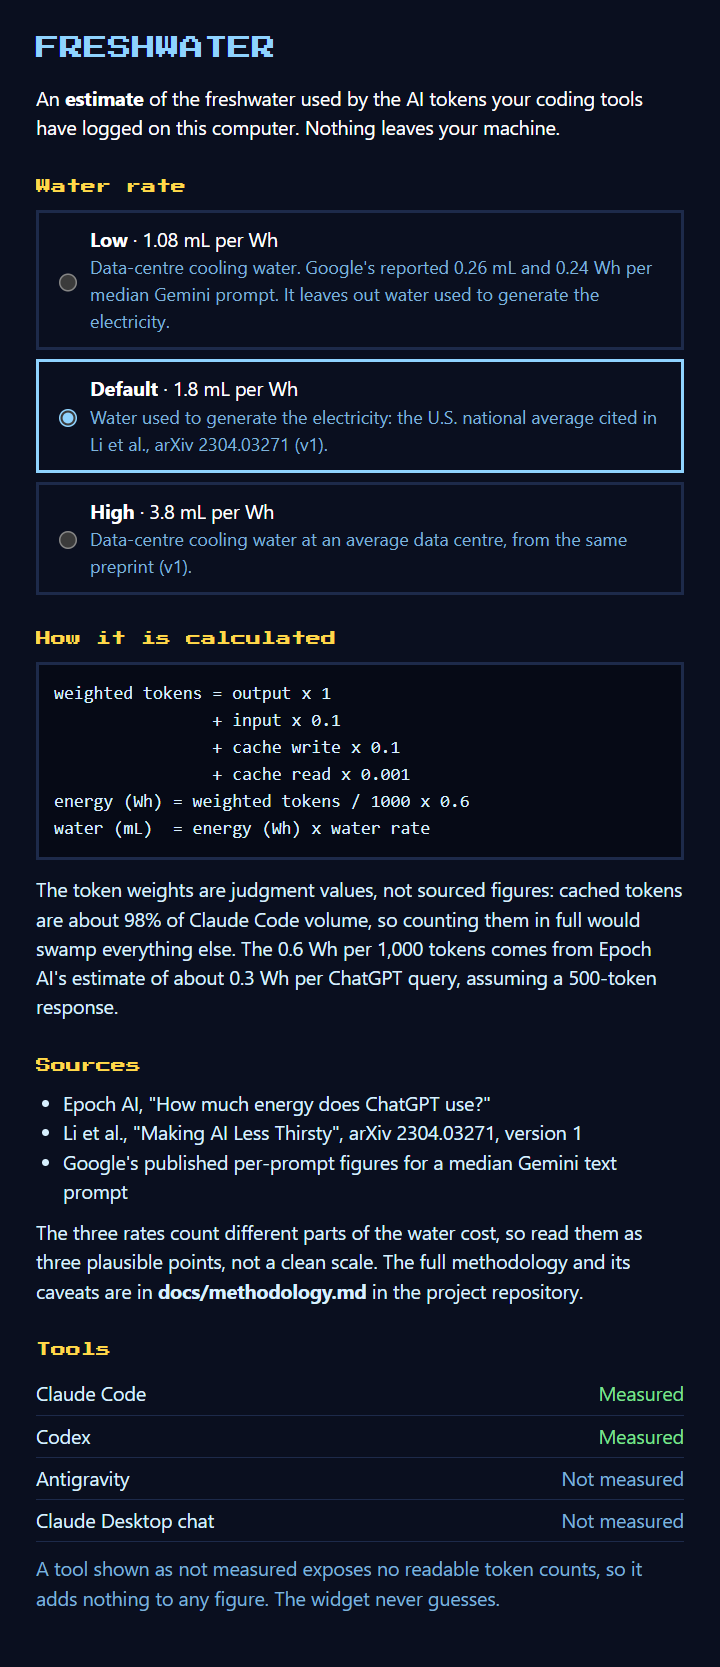
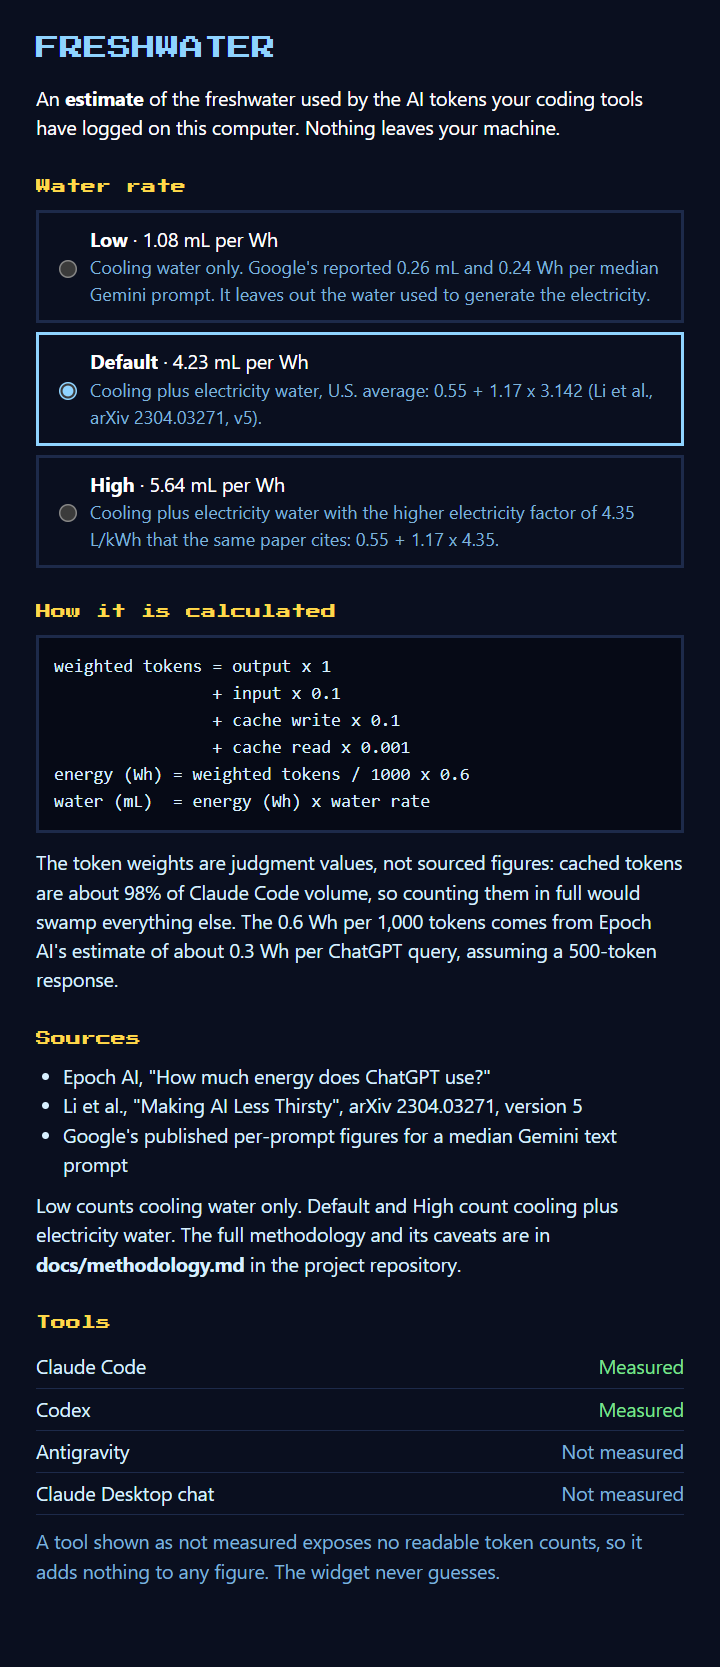
fix: base water-rate presets on cooling plus electricity water
Default is now the Li et al. v5 U.S. average, 0.55 + 1.17 x 3.142 =
4.23 mL/Wh; High uses the 4.35 L/kWh electricity factor the paper cites
(5.64); Low stays Google's cooling-only 1.08. The old 1.8 and 3.8 were
version 1 figures that were not like-for-like and no longer appear in
the paper. The lake baseline is now an amount of energy so the lake
looks the same at every rate. Info panel rates come from the same table
the calculation uses.

Closes #25

Changed region(s): [[0.0306, 0.156, 0.9472, 0.967]]

diff --git a/src/renderer/info.html b/src/renderer/info.html
@@ -12,9 +12,9 @@
 
 <h2>Water rate</h2>
 <form id="rates">
-  <label><input type="radio" name="rate" value="low"><span><b>Low</b> &middot; 1.08 mL per Wh</span><small>Data-centre cooling water. Google's reported 0.26 mL and 0.24 Wh per median Gemini prompt. It leaves out water used to generate the electricity.</small></label>
-  <label><input type="radio" name="rate" value="default"><span><b>Default</b> &middot; 1.8 mL per Wh</span><small>Water used to generate the electricity: the U.S. national average cited in Li et al., arXiv 2304.03271 (v1).</small></label>
-  <label><input type="radio" name="rate" value="high"><span><b>High</b> &middot; 3.8 mL per Wh</span><small>Data-centre cooling water at an average data centre, from the same preprint (v1).</small></label>
+  <label><input type="radio" name="rate" value="low"><span><b>Low</b> &middot; <span data-rate="low"></span> mL per Wh</span><small>Cooling water only. Google's reported 0.26 mL and 0.24 Wh per median Gemini prompt. It leaves out the water used to generate the electricity.</small></label>
+  <label><input type="radio" name="rate" value="default"><span><b>Default</b> &middot; <span data-rate="default"></span> mL per Wh</span><small>Cooling plus electricity water, U.S. average: 0.55 + 1.17 x 3.142 (Li et al., arXiv 2304.03271, v5).</small></label>
+  <label><input type="radio" name="rate" value="high"><span><b>High</b> &middot; <span data-rate="high"></span> mL per Wh</span><small>Cooling plus electricity water with the higher electricity factor of 4.35 L/kWh that the same paper cites: 0.55 + 1.17 x 4.35.</small></label>
 </form>
 
 <h2>How it is calculated</h2>
@@ -29,11 +29,11 @@ water (mL)  = energy (Wh) x water rate</pre>
 <h2>Sources</h2>
 <ul>
   <li>Epoch AI, "How much energy does ChatGPT use?"</li>
-  <li>Li et al., "Making AI Less Thirsty", arXiv 2304.03271, version 1</li>
+  <li>Li et al., "Making AI Less Thirsty", arXiv 2304.03271, version 5</li>
   <li>Google's published per-prompt figures for a median Gemini text prompt</li>
 </ul>
 
-<p>The three rates count different parts of the water cost, so read them as three plausible points, not a clean scale. The full methodology and its caveats are in <b>docs/methodology.md</b> in the project repository.</p>
+<p>Low counts cooling water only. Default and High count cooling plus electricity water. The full methodology and its caveats are in <b>docs/methodology.md</b> in the project repository.</p>
 
 <h2>Tools</h2>
 <ul id="tools"></ul>

diff --git a/test/tracker.test.js b/test/tracker.test.js
@@ -5,7 +5,7 @@ const os = require('node:os');
 const path = require('node:path');
 const { createTracker, ACTIVE_MS } = require('../src/core/tracker');
 const { waterMl, RATES } = require('../src/core/water');
-const { lakeLevel } = require('../src/core/lake');
+const { lakeLevel, BASELINE_WH } = require('../src/core/lake');
 
 const tmp = () => path.join(fs.mkdtempSync(path.join(os.tmpdir(), 'fw-tracker-')), 'ledger.json');
 const usage = (output) => ({ input: 0, output, cacheRead: 0, cacheWrite: 0 });
@@ -66,7 +66,7 @@ test('average is all-time water over session count', () => {
 test('level follows the lake formula', () => {
   const a = fake('claude-code', 'Claude Code', { status: 'measured', sessions: [rec('claude-code', 'a', 1000, 5)] });
   const snap = setup([a]).tracker.tick();
-  assert.equal(snap.level, lakeLevel(snap.session.ml, snap.averageMl, 1));
+  assert.equal(snap.level, lakeLevel(snap.session.ml, snap.averageMl, 1, BASELINE_WH * RATES.default));
 });
 
 test('pruned session stays in all-time', () => {
@@ -138,4 +138,11 @@ test('a failing ledger save still yields a snapshot and is retried', () => {
   fs.rmSync(blocker);
   tracker.tick(); // the folder is now creatable: the unsaved ledger is written without any new usage
   assert.ok(fs.existsSync(ledgerPath));
+});
+
+test('the early lake level does not depend on the rate preset', () => {
+  const a = fake('claude-code', 'Claude Code', { status: 'measured', sessions: [rec('claude-code', 'a', 50000, 5)] });
+  const levels = Object.values(RATES).map((rate) => setup([a], 1_000_000, rate).tracker.tick().level);
+  assert.ok(levels[0] > 0 && levels[0] < 1);
+  for (const l of levels) assert.ok(Math.abs(l - levels[0]) < 1e-9, `levels differ: ${levels}`);
 });

diff --git a/test/water.test.js b/test/water.test.js
@@ -7,8 +7,21 @@ const owners = { input: 19927, output: 8343417, cacheRead: 2731736180, cacheWrit
 test('weights tokens', () =>
   assert.equal(weightedTokens({ input: 1000, output: 1000, cacheRead: 1000, cacheWrite: 1000 }), 1201));
 
-test('default rate on owner totals gives about 16.6 L', () =>
-  assert.ok(Math.abs(waterMl(owners, RATES.default) - 16580) < 100));
+test('default rate on owner totals gives about 39 L', () =>
+  assert.ok(Math.abs(waterMl(owners, RATES.default) - 38984) < 100));
+
+// Li et al. (arXiv 2304.03271 v5): operational water = energy x [on-site WUE + PUE x EWIF].
+// U.S. average: WUE 0.55 L/kWh, PUE 1.17, EWIF 3.142 L/kWh; the paper also cites 4.35 L/kWh for EWIF.
+test('default is the paper U.S. average of cooling plus electricity water', () =>
+  assert.ok(Math.abs(RATES.default - (0.55 + 1.17 * 3.142)) < 0.01));
+
+test('high uses the higher electricity factor the paper cites', () =>
+  assert.ok(Math.abs(RATES.high - (0.55 + 1.17 * 4.35)) < 0.01));
+
+test('low is the Google cooling-water figure and presets are ordered', () => {
+  assert.equal(RATES.low, 1.08);
+  assert.ok(RATES.low < RATES.default && RATES.default < RATES.high);
+});
 
 test('zero usage is zero water', () =>
   assert.equal(waterMl({ input: 0, output: 0, cacheRead: 0, cacheWrite: 0 }, RATES.default), 0));

diff --git a/src/core/lake.js b/src/core/lake.js
@@ -1,9 +1,13 @@
 const BASELINE_ML = 140;
+// The baseline is an amount of energy, so it follows whichever water rate is chosen.
+// 140 mL was written at the original 1.8 mL/Wh.
+const BASELINE_WH = BASELINE_ML / 1.8;
 const MIN_SESSIONS = 5;
 
 // Fraction of the lake gone: an average session leaves it half gone.
-function lakeLevel(sessionMl, averageMl, sessionCount) {
-  const average = sessionCount >= MIN_SESSIONS && averageMl > 0 ? averageMl : BASELINE_ML;
+// baselineMl stands in for the average until there are enough sessions.
+function lakeLevel(sessionMl, averageMl, sessionCount, baselineMl = BASELINE_ML) {
+  const average = sessionCount >= MIN_SESSIONS && averageMl > 0 ? averageMl : baselineMl;
   return Math.min(1, sessionMl / (2 * average));
 }
 
@@ -11,4 +15,4 @@ function sceneState(level) {
   return { jump: level < 0.4, haze: level > 0.6, stranded: level > 0.8 };
 }
 
-module.exports = { lakeLevel, sceneState };
+module.exports = { lakeLevel, sceneState, BASELINE_WH };

diff --git a/src/core/water.js b/src/core/water.js
@@ -1,4 +1,9 @@
-const RATES = { low: 1.08, default: 1.8, high: 3.8 }; // mL per Wh
+// mL of water per Wh of server energy. See docs/methodology.md.
+// Li et al. (arXiv 2304.03271 v5): operational water = energy x [on-site WUE + PUE x EWIF].
+//   low     1.08  data-centre cooling water only (Google's fleetwide figure)
+//   default 4.23  cooling plus electricity water, U.S. average: 0.55 + 1.17 x 3.142
+//   high    5.64  the same, with the 4.35 L/kWh electricity factor the paper cites: 0.55 + 1.17 x 4.35
+const RATES = { low: 1.08, default: 4.23, high: 5.64 };
 
 const WEIGHTS = { output: 1, input: 0.1, cacheWrite: 0.1, cacheRead: 0.001 };
 const WH_PER_1000_WEIGHTED = 0.6;

diff --git a/src/core/tracker.js b/src/core/tracker.js
@@ -1,6 +1,6 @@
 const { loadLedger, saveLedger, mergeSessions } = require('./ledger');
 const { waterMl } = require('./water');
-const { lakeLevel } = require('./lake');
+const { lakeLevel, BASELINE_WH } = require('./lake');
 
 const ACTIVE_MS = 300000;
 
@@ -50,7 +50,7 @@ function createTracker({ adapters, ledgerPath, getRate, now }) {
         ml: waterMl(latest.usage, rate),
         active: now() - latest.lastActiveAt < ACTIVE_MS,
       };
-      level = lakeLevel(session.ml, averageMl, records.length);
+      level = lakeLevel(session.ml, averageMl, records.length, BASELINE_WH * rate);
     }
 
     return {

diff --git a/src/renderer/info.js b/src/renderer/info.js
@@ -26,5 +26,9 @@ ratesForm.addEventListener('change', (e) => {
   if (e.target.name === 'rate') window.freshwater.setRatePreset(e.target.value);
 });
 
-window.freshwater.getRates().then((r) => selectPreset(r.preset));
+window.freshwater.getRates().then((r) => {
+  // the numbers shown come from the same table the calculation uses, so they cannot drift
+  for (const el of document.querySelectorAll('[data-rate]')) el.textContent = String(r.rates[el.dataset.rate]);
+  selectPreset(r.preset);
+});
 window.freshwater.onSnapshot((s) => renderTools(s.tools));

diff --git a/docs/methodology.md b/docs/methodology.md
@@ -30,7 +30,7 @@ A made-up session: 5,000 input, 50,000 output, 5,000,000 cache-read and 200,000 
 | Input | 5,000 | 0.1 | 500 |
 | **Total** | | | **75,500** |
 
-75,500 weighted tokens is 45.3 Wh, which is **49 mL** at the Low rate, **82 mL** at Default and **172 mL** at High.
+75,500 weighted tokens is 45.3 Wh, which is **49 mL** at the Low rate, **192 mL** at Default and **256 mL** at High.
 
 Cache reads are 95% of the raw tokens here but only about 7% of the weighted total. The estimate is driven by output tokens and cache writes.
 
@@ -41,7 +41,7 @@ Cache reads are 95% of the raw tokens here but only about 7% of the weighted tot
 | Token counts | per session | Your tool's own logs | High, where a tool logs them |
 | Token weights | 1 / 0.1 / 0.1 / 0.001 | **Judgment**, not a sourced figure | Low |
 | Energy per weighted token | 0.6 Wh per 1,000 | Derived from Epoch AI (below) | Low to medium |
-| Water per Wh | 1.08 / 1.8 / 3.8 mL | Three published figures (below) | Low to medium |
+| Water per Wh | 1.08 / 4.23 / 5.64 mL | Published figures combined with the paper's formula (below) | Low to medium |
 
 ### Token weights (judgment)
 
@@ -63,29 +63,40 @@ Caveats from the same article, which matter here:
 
 ### Water per Wh: three presets
 
-You choose one in the info panel. They are **not like-for-like**, because they measure different parts of the water cost:
+You choose one in the info panel. Li et al. split a data centre's operational water into two parts and add them:
+
+```
+water = server energy x [ on-site cooling water (WUE)  +  PUE x electricity water (EWIF) ]
+```
+
+- **Cooling water** is evaporated on site to remove heat.
+- **Electricity water** is used at power stations to make the electricity. PUE is the data centre's overhead factor, so the electricity it draws is more than the servers' own.
+
+For their U.S. average the paper uses WUE 0.55 L/kWh, PUE 1.17 and EWIF 3.142 L/kWh. A kilowatt-hour is a thousand watt-hours, so litres per kWh are the same number as millilitres per Wh.
 
 | Preset | mL per Wh | What it counts |
 |---|---:|---|
-| Low | 1.08 | Water used to **cool the data centre**. Google reports 0.26 mL and 0.24 Wh for a median Gemini text prompt, and says it derived the water by multiplying energy by its fleetwide water usage effectiveness. It does not include water used to generate the electricity, which critics have pointed out. |
-| Default | 1.8 | Water used to **generate the electricity** (an off-site factor). This is the U.S. national average cited in version 1 of Li et al. |
-| High | 3.8 | Water used to **cool the data centre**, at an average data centre in the same paper, which gives 3.8 L per kWh of cooling load, with some sites using 5.2. |
+| Low | 1.08 | **Cooling water only.** Google reports 0.26 mL and 0.24 Wh for a median Gemini text prompt, and says it derived the water by multiplying energy by its fleetwide water usage effectiveness. It leaves out the water used to generate the electricity, which critics have pointed out. |
+| Default | 4.23 | **Cooling plus electricity water**, U.S. average from Li et al.: 0.55 + 1.17 x 3.142. |
+| High | 5.64 | **Cooling plus electricity water**, using the higher electricity factor of 4.35 L/kWh that the paper says another study reported: 0.55 + 1.17 x 4.35. |
 
-Because the scopes differ, the presets are better read as three plausible points than as a clean low-to-high scale. A full accounting would add on-site cooling and off-site electricity water together, and none of the presets does that.
+Low is a deliberate lower bound that counts only part of the cost. Default and High count the full operational water and differ only in the electricity factor. None of them includes water used to build the hardware.
 
 Sources:
 
-- Li, Yang, Islam and Ren, ["Making AI Less Thirsty"](https://arxiv.org/abs/2304.03271), arXiv 2304.03271, **version 1** (6 April 2023). The 1.8 and 3.8 figures were read from this version's text.
+- Li, Yang, Islam and Ren, ["Making AI Less Thirsty"](https://arxiv.org/abs/2304.03271), arXiv 2304.03271, **version 5** (26 March 2025). The formula, the U.S. averages and the 4.35 L/kWh figure were read from this version's text and Table 1. As a check, the paper's U.S. average row works out to 16.9 mL of water for a 4 Wh request, which is 4.23 mL per Wh.
 - Google Cloud, a blog post on [measuring the environmental impact of AI inference](https://cloud.google.com/blog/products/infrastructure/measuring-the-environmental-impact-of-ai-inference) (August 2025). The 0.26 mL and 0.24 Wh figures were checked against the blog and secondary coverage, not the full paper.
 
-**The paper was later revised.** The latest version (v5, March 2025) gives different numbers: a U.S. average off-site factor of 3.14 L/kWh and a U.S. average on-site figure of 0.55 L/kWh, and the text I checked no longer contains the 1.8 or 3.8 figures. The Default and High presets still use the version 1 values. Using the latest values would raise the Default rate. This is tracked in [#25](https://github.com/UnforGBeast/codegreen/issues/25).
+The paper itself says its numbers lean low: Microsoft's data centres "already have some of the lowest on-site WUE in the industry", and a third-party colocation data centre would likely use several times more cooling water.
+
+**History.** Earlier versions of Freshwater used 1.8 and 3.8 mL per Wh from version 1 of the paper. Those were not like-for-like: 1.8 was only the bare electricity factor, with no cooling water and no PUE, and 3.8 was a cooling-only figure. Version 5 no longer contains them. Moving to the combined figure raised the Default by a factor of 2.35, so any totals you remember from an older build were about 2.35 times lower. Your saved ledger stores token counts, not water, so every figure is recalculated automatically. This was tracked in [#25](https://github.com/UnforGBeast/codegreen/issues/25).
 
 ## What could be wrong
 
 The error runs in both directions, and the width of it is large.
 
-- **Water rate alone** spans a factor of 3.5 between Low and High.
-- **Cache reads are probably under-weighted for long sessions.** A cache hit saves reprocessing the prompt, but the model still reads that context for every token it generates, so long conversations cost more than a tiny weight implies. Epoch's long-input figures are several times higher than this model gives for the same input (10,000 input tokens is 0.6 Wh here against about 2.4 Wh in Epoch's estimate). In the worked example, raising the cache-read weight from 0.001 to 0.01 lifts the Default result from 82 mL to 130 mL.
+- **Water rate alone** spans a factor of 5 between Low and High, mostly because Low counts only cooling water.
+- **Cache reads are probably under-weighted for long sessions.** A cache hit saves reprocessing the prompt, but the model still reads that context for every token it generates, so long conversations cost more than a tiny weight implies. Epoch's long-input figures are several times higher than this model gives for the same input (10,000 input tokens is 0.6 Wh here against about 2.4 Wh in Epoch's estimate). In the worked example, raising the cache-read weight from 0.001 to 0.01 lifts the Default result from 192 mL to 306 mL.
 - **Reasoning and agentic work** can use more energy per token than a short chat answer.
 - **Efficiency is improving.** Google reports its median text prompt energy fell 33-fold over a year, so older estimates can overstate current use.
 - **A different model and hardware** from the GPT-4o assumption could move the energy either way.
@@ -108,7 +119,7 @@ The lake compares a session against **your own average**:
 level = min(1, session water / (2 x average water per session))
 ```
 
-So an average session leaves the lake half gone, and a session twice your average empties it. Until you have 5 sessions it uses a baseline of 140 mL in place of your average. That baseline was taken from an early count that overstated the number of sessions, and is tracked for revision in [#10](https://github.com/UnforGBeast/codegreen/issues/10).
+So an average session leaves the lake half gone, and a session twice your average empties it. Until you have 5 sessions it uses a baseline of about 78 Wh of energy per session (140 mL at the original 1.8 mL per Wh), turned into millilitres at the rate you chose, so the lake looks the same whichever preset you pick. That baseline was taken from an early count that overstated the number of sessions, and is tracked for revision in [#10](https://github.com/UnforGBeast/codegreen/issues/10).
 
 | Level | What you see |
 |---|---|

diff --git a/README.md b/README.md
@@ -57,11 +57,11 @@ water (mL)      = energy (Wh) x water rate (mL per Wh)
 
 - The token weights are judgment calls, not sourced figures. Cached tokens are about 98% of Claude Code volume, so counting them in full would swamp everything else.
 - 0.6 Wh per 1,000 tokens comes from Epoch AI's estimate of about 0.3 Wh per ChatGPT query, which assumes a 500-token response.
-- The water rate has three presets, chosen in the info panel: **Low** 1.08 mL per Wh (Google's data-centre cooling water per prompt), **Default** 1.8 mL per Wh (water used to generate the electricity, the U.S. average cited in Li et al., arXiv 2304.03271 v1) and **High** 3.8 mL per Wh (cooling water at an average data centre, same preprint). They count different parts of the water cost, so they are three plausible points, not a clean scale.
+- The water rate has three presets, chosen in the info panel. They follow the formula in Li et al. (arXiv 2304.03271 v5), water = energy x [cooling water + PUE x electricity water]. **Low** is 1.08 mL per Wh: cooling water only, from Google's per-prompt figures. **Default** is 4.23 mL per Wh: cooling plus electricity water, the U.S. average in the paper. **High** is 5.64 mL per Wh: the same, with the higher electricity factor the paper cites.
 
 This is a rough, order-of-magnitude figure, and the uncertainty runs in both directions. [docs/methodology.md](docs/methodology.md) has the sources, a worked example, what could be wrong and what is left out.
 
-The lake level compares a session against your own average: an average session leaves the lake half gone. Until you have 5 sessions it uses a baseline of 140 mL.
+The lake level compares a session against your own average: an average session leaves the lake half gone. Until you have 5 sessions it uses a baseline of about 78 Wh per session, so the lake looks the same whichever rate you choose.
 
 ## Privacy
 
